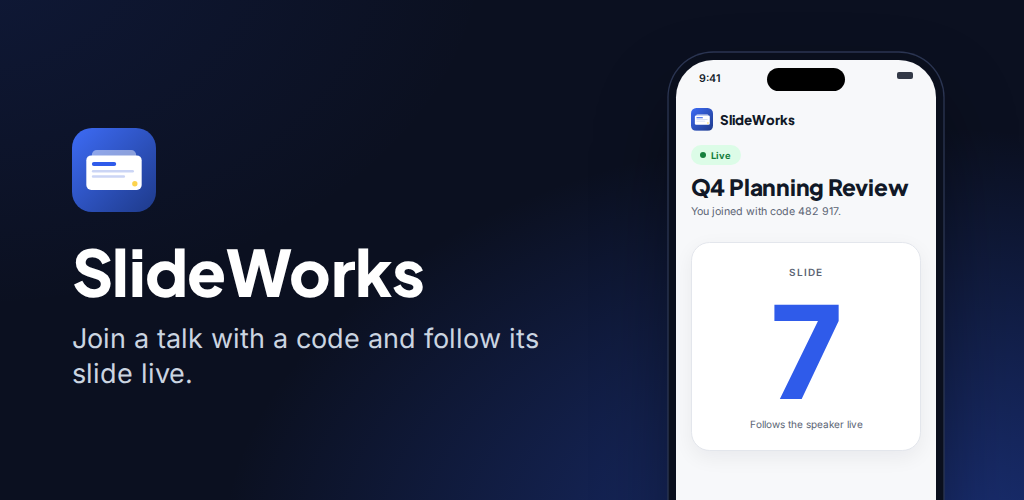
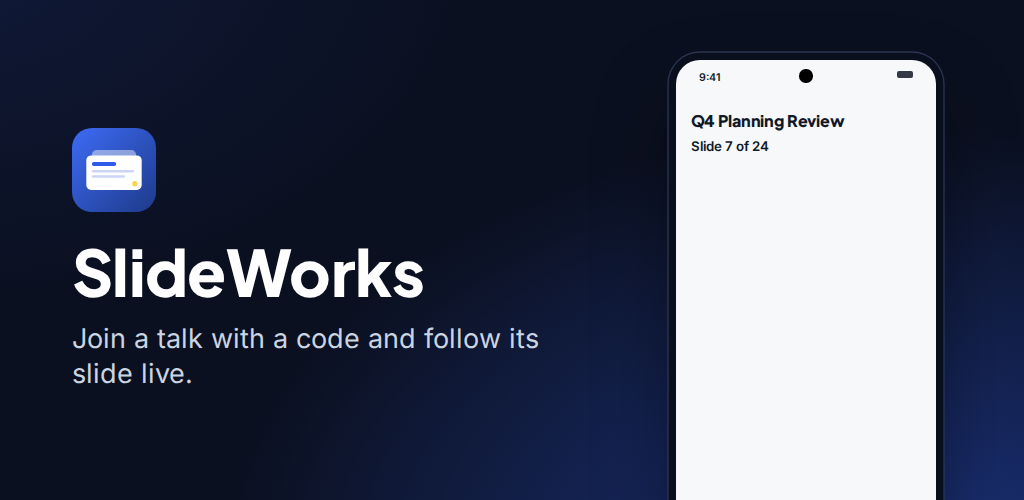
SW-977 Draw Home, Join and Sign in as the app does, Android frame, shorter Talks headline

diff --git a/store/assets/_shared/screens.js b/store/assets/_shared/screens.js
@@ -1,17 +1,13 @@
 // The v0 screens drawn as HTML, from the same tokens as the app. Returns the markup of one phone.
 window.SW = window.SW || {};
 window.SW.screens = {
-  home: () => `<div class="brand">${SW.mark('light', 34)}SlideWorks</div>
-    <h1 style="margin-top:calc(var(--u) * 34)">Join a talk</h1><p class="sub">Type the six-digit code shown on the screen.</p>
-    <div class="label">Code</div>
-    <div class="digits"><b>4</b><b>8</b><b>2</b><b>9</b><b>1</b><b class="on">7</b></div>
-    <div class="btn" style="margin-top:calc(var(--u) * 22)">Join</div>
-    <div class="or">or</div><div class="btn alt">Sign in</div>
-    <p class="foot">No account needed to join a talk.</p>`,
-  join: () => `<div class="nav"><div class="brand" style="margin:0">${SW.mark('light', 34)}SlideWorks</div></div>
-    <div class="pill">Live</div><h1 style="margin-top:calc(var(--u) * 14)">Q4 Planning Review</h1>
-    <p class="sub">You joined with code 482 917.</p>
-    <div class="big"><small>Slide</small><strong>7</strong><p>Follows the speaker live</p></div>`,
+  home: () => `<h1 style="margin-top:calc(var(--u) * 14); font-size:calc(var(--u) * 24)">Join a talk</h1>
+    <div class="code" style="margin-top:calc(var(--u) * 16)">482917</div>
+    <p class="hint">Enter the six-digit code.</p>
+    <div class="btn">Join a talk</div>
+    <div class="btn alt">Sign in</div>`,
+  join: () => `<h1 style="margin-top:calc(var(--u) * 14); font-size:calc(var(--u) * 24)">Q4 Planning Review</h1>
+    <p class="live">Slide 7 of 24</p>`,
   talks: () => `<div class="nav"><h1 style="font-size:calc(var(--u) * 34)">Talks</h1><div class="avatar">JD</div></div>
     <div style="margin-top:calc(var(--u) * 14)"></div>
     ${[['Q4 Planning Review', '2 days ago'], ['Onboarding Kickoff', '5 days ago'], ['Design Systems Tour', 'last week'], ['Team Offsite Recap', '2 weeks ago'], ['Launch Retro', '3 weeks ago'], ['Roadmap Walkthrough', 'last month']]
@@ -20,12 +16,10 @@ window.SW.screens = {
     <div class="pill">Connected</div><h1 style="margin-top:calc(var(--u) * 14)">Q4 Planning Review</h1>
     <p class="sub">Move the slide on the web and this number follows.</p>
     <div class="big"><small>Current slide</small><strong>12</strong><p>Updates live</p></div>`,
-  signin: () => `<div class="brand">${SW.mark('light', 34)}SlideWorks</div>
-    <h1 style="margin-top:calc(var(--u) * 34)">Sign in</h1><p class="sub">Use the hosted server, or type the address of your own.</p>
-    <div class="label">Server</div>
-    <div class="field">https://slideworks.app<em>Reachable</em></div>
-    <div class="btn" style="margin-top:calc(var(--u) * 22)">Sign in with Google</div>
-    <p class="foot">You sign in through your browser. The app never sees your Google password.</p>`,
+  signin: () => `<div class="label" style="margin-top:calc(var(--u) * 14)">Server</div>
+    <div class="server">https://slideworks.app<em>Use another server</em></div>
+    <div class="btn">Sign in with Google</div>`,
 };
-window.SW.phone = (name, dark) => `<div class="phone-box"><div class="phone${dark ? ' dark' : ''}"><div class="island"></div>
+// An iPhone frame (Dynamic Island) unless the page's body says data-frame="android" (a punch-hole camera).
+window.SW.phone = (name, dark) => `<div class="phone-box"><div class="phone${dark ? ' dark' : ''}${document.body.dataset.frame === 'android' ? ' android' : ''}"><div class="${document.body.dataset.frame === 'android' ? 'punch' : 'island'}"></div>
   <div class="status"><span>9:41</span><i></i></div><div class="screen">${SW.screens[name]()}</div></div></div>`;

diff --git a/store/assets/_shared/screens.css b/store/assets/_shared/screens.css
@@ -42,3 +42,11 @@ h1 { font-family: var(--sw-font-head); font-weight: 800; font-size: calc(var(--u
 .field em { font-style: normal; font-weight: 600; font-size: calc(var(--u) * 13); color: var(--sw-good); }
 .spacer { flex: 1; }
 .btn + .btn, .field + .btn { margin-top: calc(var(--u) * 14); }
+.code { height: calc(var(--u) * 62); border-radius: calc(var(--u) * 12); background: var(--card); border: calc(var(--u) * 1) solid var(--line); display: flex; align-items: center; padding: 0 calc(var(--u) * 14); font-size: calc(var(--u) * 28); letter-spacing: calc(var(--u) * 6); }
+.hint { color: var(--muted); font-size: calc(var(--u) * 16); margin-top: calc(var(--u) * 12); margin-bottom: calc(var(--u) * 12); }
+.live { font-size: calc(var(--u) * 20); font-weight: 600; margin-top: calc(var(--u) * 12); }
+.server { display: flex; align-items: center; gap: calc(var(--u) * 12); font-size: calc(var(--u) * 16); margin-bottom: calc(var(--u) * 12); }
+.server em { font-style: normal; color: var(--sw-accent); }
+.phone.android { border-radius: calc(var(--u) * 36); }
+.punch { position: absolute; top: calc(var(--u) * 14); left: 50%; width: calc(var(--u) * 20); height: calc(var(--u) * 20); margin-left: calc(var(--u) * -10); background: #000; border-radius: 50%; }
+.android .status { top: calc(var(--u) * 16); }

diff --git a/store/assets/_shared/shots.css b/store/assets/_shared/shots.css
@@ -2,6 +2,6 @@
    The set's asset.html sets --w, --h, --phone-w and --phone-top. */
 .shot { container-type: inline-size; position: relative; width: var(--w); height: var(--h); overflow: hidden; background: var(--sw-night-surface); margin: 0 0 40px; color: #fff; }
 .shot .head { position: absolute; top: 6.2%; left: 8%; right: 8%; text-align: center; }
-.shot h2 { font-family: var(--sw-font-head); font-weight: 800; font-size: 7.6cqw; line-height: 1.08; letter-spacing: -0.01em; }
+.shot h2 { font-family: var(--sw-font-head); font-weight: 800; font-size: 7.6cqw; line-height: 1.08; letter-spacing: -0.01em; text-wrap: balance; }
 .shot .head p { color: var(--sw-night-2); font-size: 3.7cqw; margin-top: 2.4cqw; }
 .shot .phone-box { position: absolute; left: calc((100% - var(--phone-w)) / 2); top: var(--phone-top); width: var(--phone-w); }

diff --git a/store/assets/_shared/shots.js b/store/assets/_shared/shots.js
@@ -2,7 +2,7 @@
 const SHOTS = [
   ['1-home', 'home', false, 'Join a talk with a code', 'Type the six digits from the screen'],
   ['2-join', 'join', false, 'Follow the slide live', 'See the slide number the speaker is on'],
-  ['3-talks', 'talks', false, 'Your talks, one tap away', 'Sign in and open any of your decks'],
+  ['3-talks', 'talks', false, 'Open any of your talks', 'Sign in and open any of your decks'],
   ['4-talk', 'talk', true, 'Your deck, live on your phone', 'The current slide, updated as it changes'],
   ['5-sign-in', 'signin', false, 'Sign in through your browser', 'The hosted server, or your own'],
 ];

diff --git a/store/assets/android-phone/asset.html b/store/assets/android-phone/asset.html
@@ -10,7 +10,7 @@
       :root { --w: 1080px; --h: 1920px; --phone-w: 70%; --phone-top: 25%; }
     </style>
   </head>
-  <body>
+  <body data-frame="android">
     <script src="../_shared/mark.js"></script>
     <script src="../_shared/screens.js"></script>
     <script src="../_shared/shots.js"></script>

diff --git a/store/assets/android-feature/asset.html b/store/assets/android-feature/asset.html
@@ -14,7 +14,7 @@
       .phone-box { position: absolute; left: 676px; top: 60px; width: 260px; }
     </style>
   </head>
-  <body>
+  <body data-frame="android">
     <script src="../_shared/mark.js"></script>
     <script src="../_shared/screens.js"></script>
     <script>
